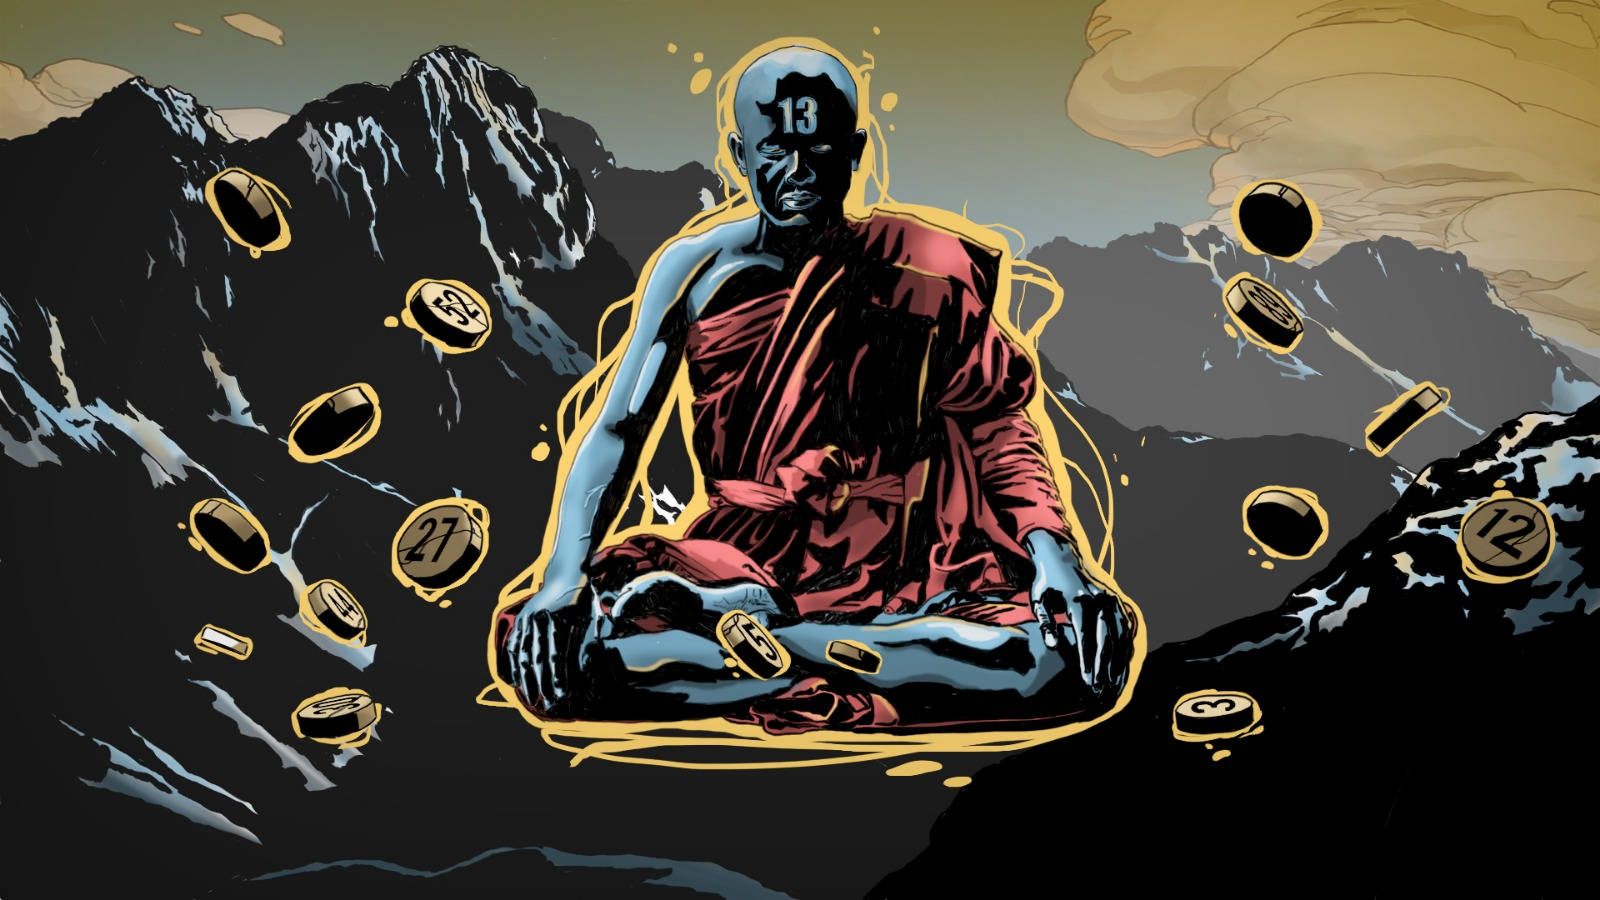
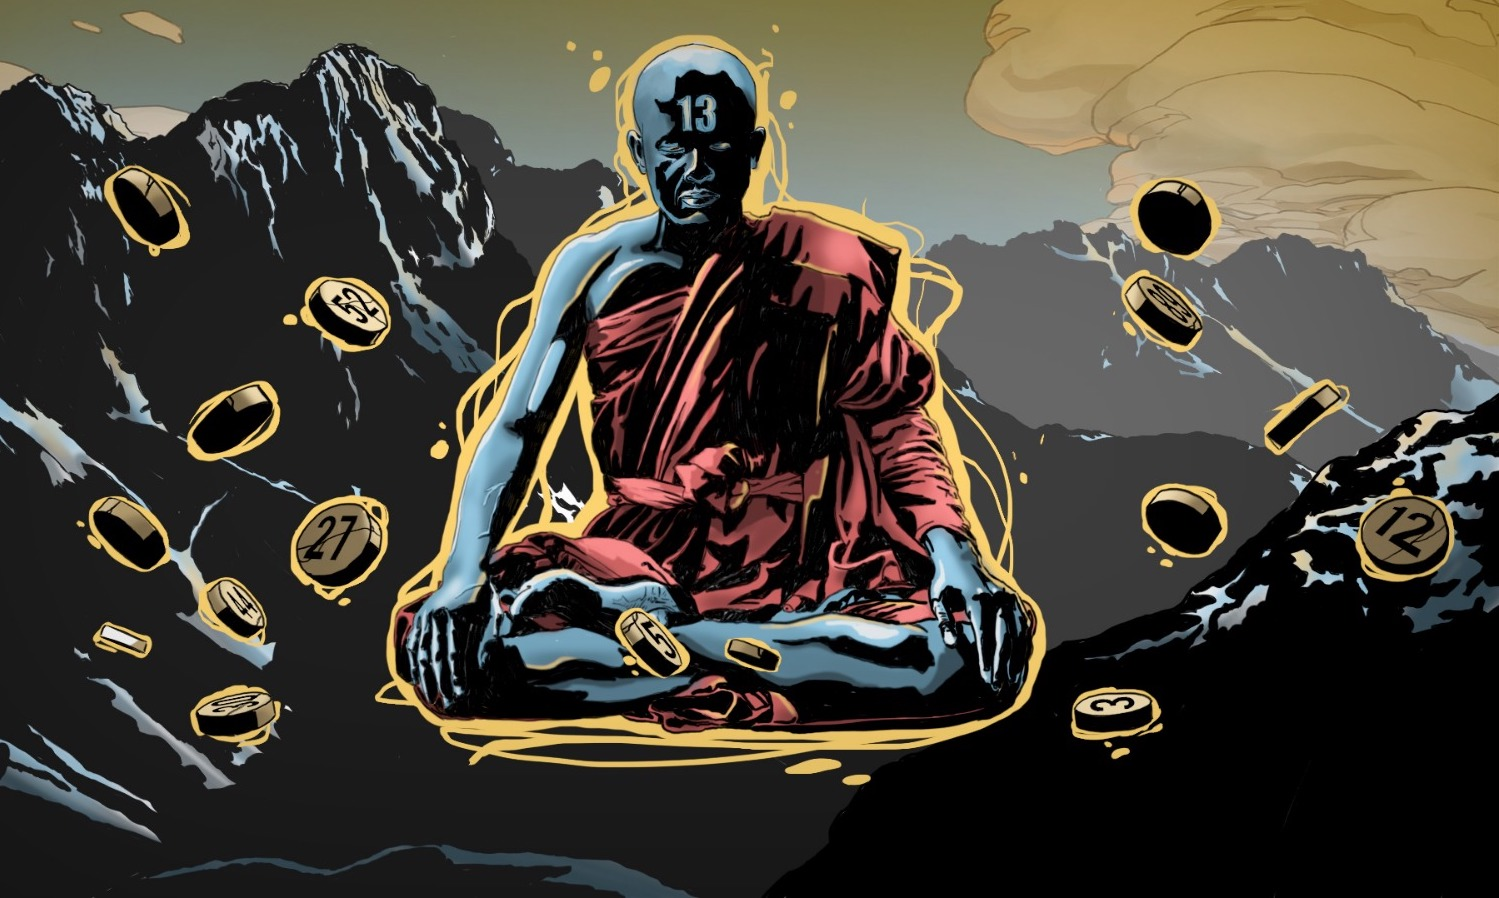
cambio immagine

diff --git a/ClientSide/src/resources/StartingInterfaceStyle.css b/ClientSide/src/resources/StartingInterfaceStyle.css
@@ -10,7 +10,7 @@
 }
 
 #back {
-	-fx-background-image: url("./StartingImg.jpg");
+	-fx-background-image: url("StartingImg.jpg");
 }
 
 

diff --git a/ClientSide/src/Main.java b/ClientSide/src/Main.java
@@ -70,7 +70,7 @@ public class Main extends Application {
 
 
         Parent parent = loader.load();
-        Scene scene = new Scene(parent,600,400);
+        Scene scene = new Scene(parent,800, 500);
 
         //Press ESC to close the window
         scene.addEventHandler(javafx.scene.input.KeyEvent.KEY_PRESSED, new EventHandler<javafx.scene.input.KeyEvent>() {
